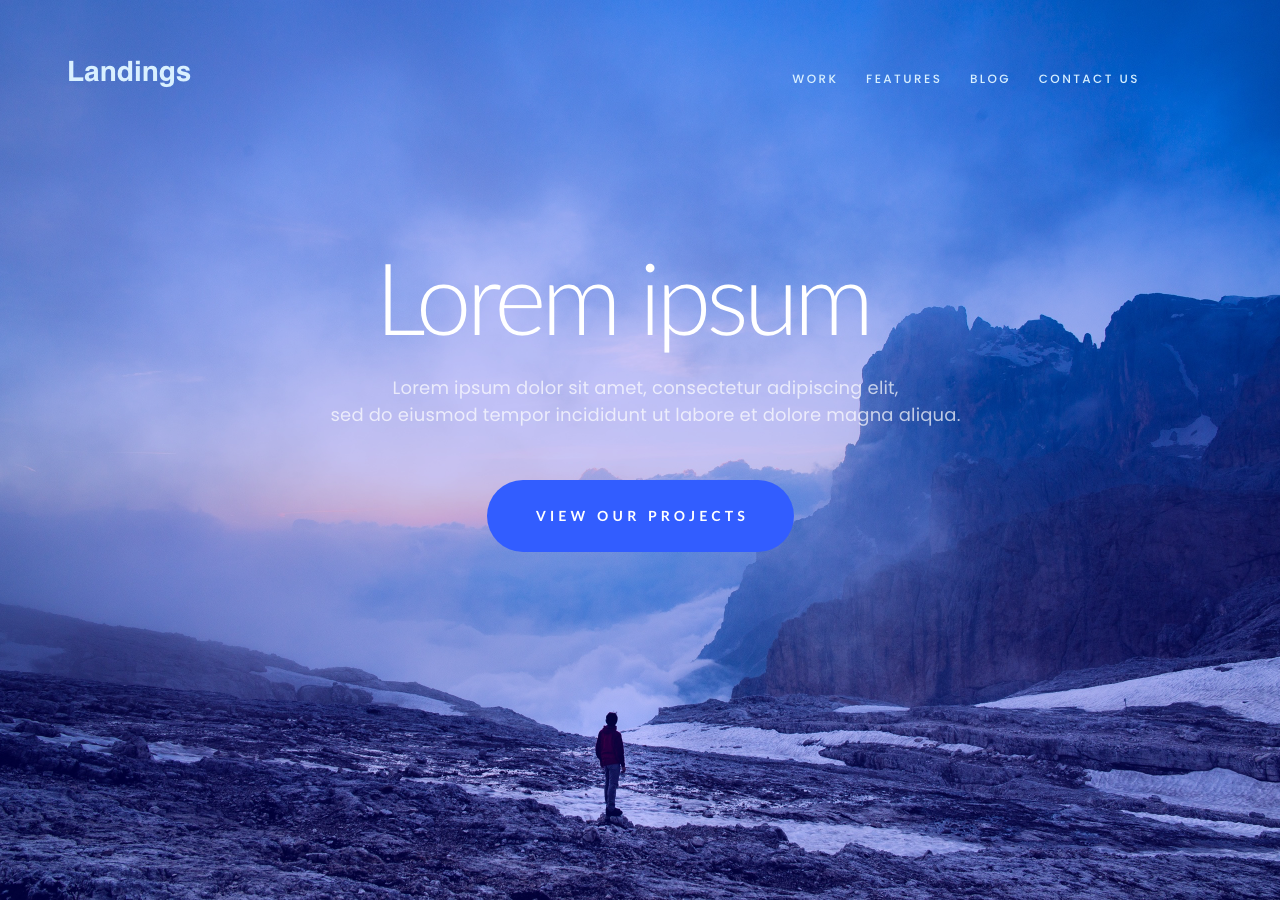
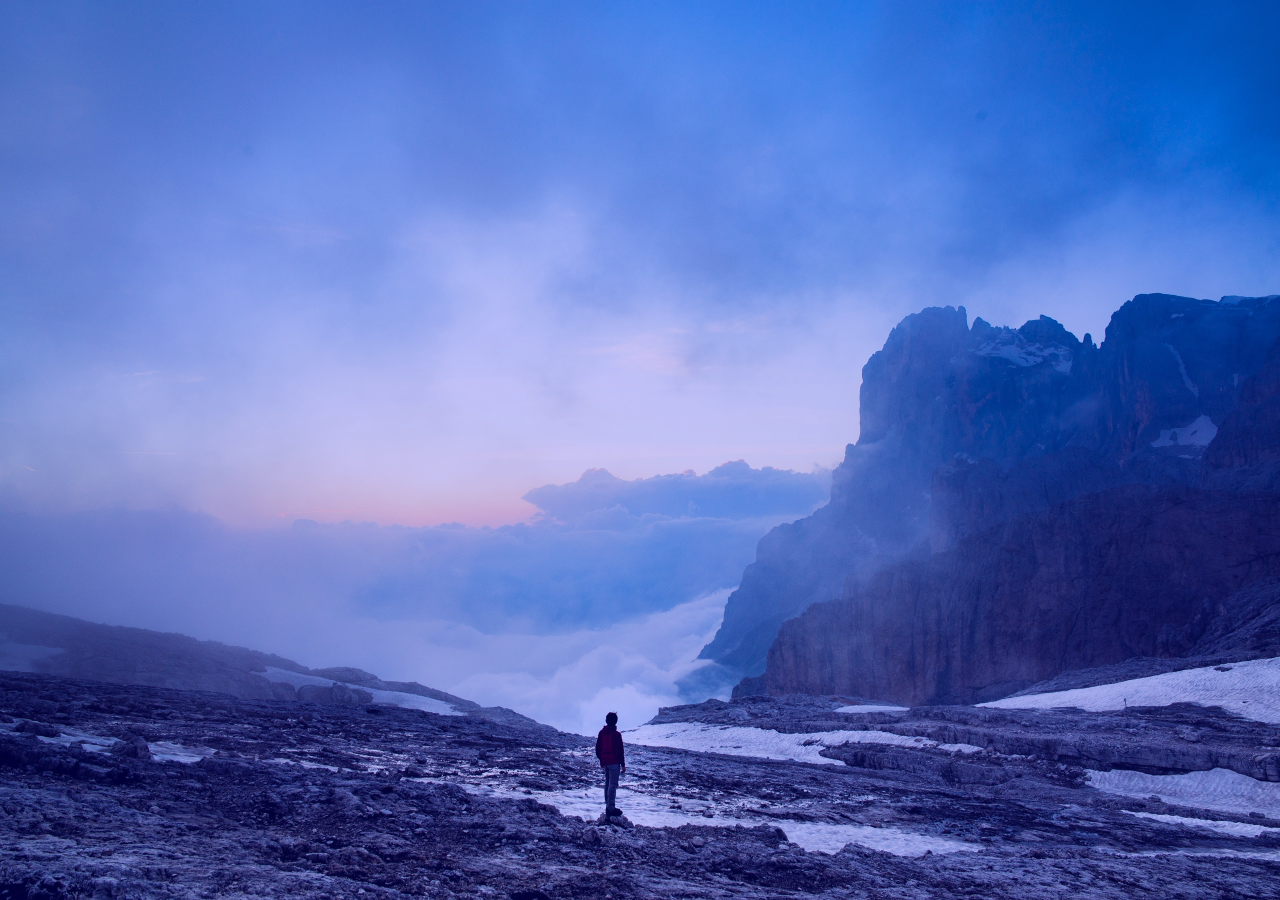
added images to folder, created partial layout

diff --git a/index.html b/index.html
@@ -25,25 +25,30 @@
       <div class="jumbotron">
         <h1 class="jumbotron__heading">Lorem ipsum</h1>
         <p class="jumbotron__subheading">
-          Lorem ipsum dolor sit amet consectetur adipisicing elit. Distinctio accusamus eius quia aliquam possimus nostrum nemo saepe, odio illum.
+          Lorem ipsum dolor sit amet consectetur adipisicing elit. Distinctio
+          accusamus eius quia aliquam possimus nostrum nemo saepe, odio illum.
         </p>
-        <button class="view_projects">View Our Projects</button>
+        <button class="btn__projects">View Our Projects</button>
       </div>
     </div>
 
-    <section class="section1">
-      <div class="section1__left">
-        <h1 class="section1__heading">
+    <section class="info">
+      <div class="info__article">
+        <h1 class="info__article__heading">
           Lorem ipsum dolor sit amet consectetur adipisicing elit.
         </h1>
-        <p class="section1__subheading">
+        <p class="info__article__subheading">
           Lorem ipsum dolor, sit amet consectetur adipisicing elit. Dignissimos,
           blanditiis repudiandae? Atque fugit unde laborum eius.
         </p>
-        <button class="view_projects">View Our Projects</button>
+        <button class="btn__projects">View Our Projects</button>
       </div>
-      <div class="section1__right">
-        <img src="#" alt="Building" class="section1__img" />
+      <div class="info__img">
+        <img
+          src="/css/Rectangle 2.png"
+          alt="Building"
+          class="info__img__image"
+        />
       </div>
     </section>
 
@@ -57,8 +62,8 @@
         </p>
       </div>
 
-      <div class="cards1">
-        <div class="cards__bottom">
+      <div class="grid">
+        <div class="cards__border">
           <div class="cards__content">
             <img src="#" alt="Umbrella" />
             <p class="cards__content__heading">Peace of Mind</p>
@@ -67,6 +72,8 @@
               Reiciendis delectus atque minus molestiae velit.
             </p>
           </div>
+        </div>
+        <div class="cards__border">
           <div class="cards__content">
             <img src="#" alt="Umbrella" />
             <p class="cards__content__heading">Coffee Breaks</p>
@@ -75,6 +82,8 @@
               Reiciendis delectus atque minus molestiae velit.
             </p>
           </div>
+        </div>
+        <div class="cards__border">
           <div class="cards__content">
             <img src="#" alt="Umbrella" />
             <p class="cards__content__heading">Rewards</p>
@@ -84,7 +93,7 @@
             </p>
           </div>
         </div>
-        <div class="cards2">
+        <div class="cards__border">
           <div class="cards__content">
             <img src="#" alt="Umbrella" />
             <p class="cards__content__heading">Delivery</p>
@@ -93,6 +102,8 @@
               Reiciendis delectus atque minus molestiae velit.
             </p>
           </div>
+        </div>
+        <div class="cards__border">
           <div class="cards__content">
             <img src="#" alt="Umbrella" />
             <p class="cards__content__heading">Inbox</p>
@@ -101,6 +112,8 @@
               Reiciendis delectus atque minus molestiae velit.
             </p>
           </div>
+        </div>
+        <div class="cards__border">
           <div class="cards__content">
             <img src="#" alt="Umbrella" />
             <p class="cards__content__heading">Settings</p>
@@ -114,7 +127,7 @@
     </section>
 
     <section class="video">
-      <button class="play"><img src="" alt="" /></button>
+      <button class="video__play"><img src="" alt="" /></button>
       <h2 class="video__headings">Our Case Studies</h2>
       <p class="video__para">
         Lorem ipsum dolor sit amet consectetur adipisicing elit. Dolores itaque
@@ -132,51 +145,63 @@
       </p>
     </section>
 
-    <section class="section1">
-      <div class="section1__left">
-        <h1 class="section1__heading">
+    <section class="info">
+      <div class="info__article">
+        <h1 class="info__article__heading">
           Lorem ipsum dolor sit amet consectetur adipisicing elit.
         </h1>
-        <p class="section1__subheading">
+        <p class="info__article__subheading">
           Lorem ipsum dolor, sit amet consectetur adipisicing elit. Dignissimos,
           blanditiis repudiandae? Atque fugit unde laborum eius.
         </p>
-        <button class="view_projects">View Our Projects</button>
+        <button class="btn__projects">View Our Projects</button>
       </div>
-      <div class="section1__right">
-        <img src="#" alt="Building" class="section1__img" />
+      <div class="info__img">
+        <img
+          src="/css/Rectangle 2.png"
+          alt="Building"
+          class="info__img__image"
+        />
       </div>
     </section>
 
-    <section class="section1">
-      <div class="section1__right">
-        <img src="#" alt="Building" class="section1__img" />
+    <section class="info">
+      <div class="info__img">
+        <img
+          src="/css/Rectangle 2.png"
+          alt="Building"
+          class="info__img__image"
+        />
       </div>
-      <div class="section1__left">
-        <h1 class="section1__heading">
+      <div class="info__article">
+        <h1 class="info__article__heading">
           Lorem ipsum dolor sit amet consectetur adipisicing elit.
         </h1>
-        <p class="section1__subheading">
+        <p class="info__article__subheading">
           Lorem ipsum dolor, sit amet consectetur adipisicing elit. Dignissimos,
           blanditiis repudiandae? Atque fugit unde laborum eius.
         </p>
-        <button class="view_projects">View Our Projects</button>
+        <button class="btn__projects">View Our Projects</button>
       </div>
     </section>
 
-    <section class="section1">
-      <div class="section1__left">
-        <h1 class="section1__heading">
+    <section class="info">
+      <div class="info__article">
+        <h1 class="info__article__heading">
           Lorem ipsum dolor sit amet consectetur adipisicing elit.
         </h1>
-        <p class="section1__subheading">
+        <p class="info__article__subheading">
           Lorem ipsum dolor, sit amet consectetur adipisicing elit. Dignissimos,
           blanditiis repudiandae? Atque fugit unde laborum eius.
         </p>
-        <button class="view_projects">View Our Projects</button>
+        <button class="btn__projects">View Our Projects</button>
       </div>
-      <div class="section1__right">
-        <img src="#" alt="Building" class="section1__img" />
+      <div class="info__img">
+        <img
+          src="/css/Rectangle 2.png"
+          alt="Building"
+          class="info__img__image"
+        />
       </div>
     </section>
     <footer>

diff --git a/css/style.css b/css/style.css
@@ -4,11 +4,16 @@
 }
 
 body {
-
+    font-size: 16px;
+    max-width: 1500px;
+    margin: 0 auto;
+    background-color: rgb(250, 250, 250);
 }
 /* Intro Banner Section */
 .container {
-
+background-image: url(/css/Header.png);
+background-size: cover;
+height: 80vh;
 }
 
 .nav {
@@ -17,11 +22,11 @@ body {
  align-items: center;
  max-width: 1100px;
  width: 90%;
- margin: 15px auto;
+ margin: 1rem auto;
 }
 
 .nav__landing__header {
-    padding: 15px 30px;
+    padding: 1rem 1.9rem;
 }
 
 .nav__info__list {
@@ -29,16 +34,90 @@ body {
 }
 .nav__info__list__items {
     list-style: none;
-    padding: 15px 30px;
+    padding: 1rem 1.9rem;
 }
 
 .jumbotron {
     text-align: center;
     margin: 0 auto;
-    max-width: 800px;
+    max-width: 60%;
     width: 85%;
 }
 
 .jumbotron__heading {
-    font-size: 80px;
+    font-size: 5rem;
+}
+
+.btn__projects {
+    font-size: 1.1rem;
+    padding: 1.5rem 3.1rem;
+    border-radius: 50px;
+    border-color: blue;
+    outline: none;
+    background-color: blue;
+    color: white;
+}
+
+.info {
+    border: 1px solid red;
+    display: flex;
+    flex: 1 1 calc(1/2 * 100%);
+    background-color: white;
+}
+
+.info__article {
+    width: 50%;
+    box-sizing: border-box;
+    margin: 5rem 3rem 5rem 3rem;
+}
+
+.info__article__heading {
+    font-size: 2rem;
+}
+
+.info__article__subheading {
+    margin: 2rem 0 3rem 0;
+}
+
+.info__img {
+    width: 50%;
+}
+
+.info__img__image {
+width: 100%;
+}
+
+.cards__top {
+    text-align: center;
+}
+
+.grid {
+    display: grid;
+    grid-template-columns: 1fr 1fr 1fr ;
+    grid-template-rows: 1fr 1fr;
+}
+
+.cards__border {
+    border: 1px solid red;
+    margin: 1rem;
+    text-align: center;
+}
+
+.cards__content {
+    margin: 3rem 2rem;
+    background-color: white;
+}
+
+.video {
+    width: 100%;
+    height: 20rem;
+    text-align: center;
+    background-image: url(/css/ocean.png);
+    background-size: cover;
+}
+
+.featured {
+    text-align: center;
+    width: 60%;
+    margin: 0 auto;
 }
